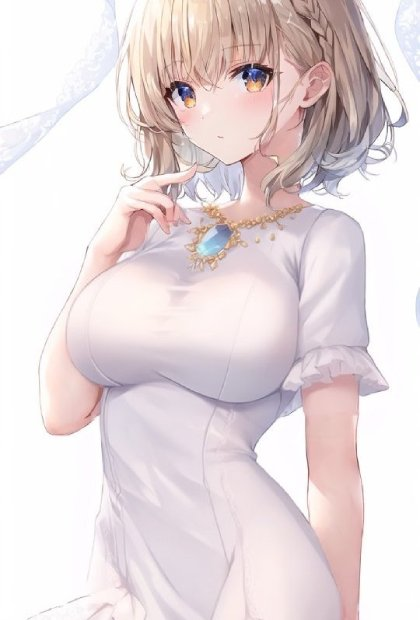
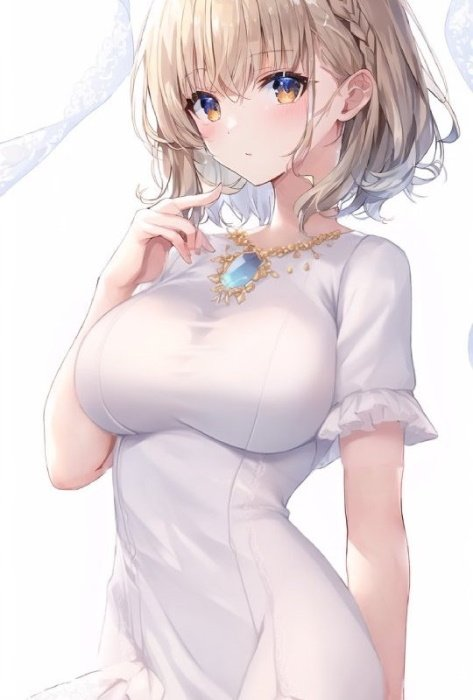
update Bomb ver1.06

diff --git a/bakuretu-bomb/bakuretubomb106.js b/bakuretu-bomb/bakuretubomb106.js
@@ -1,0 +1,291 @@
+/**
+ * 爆裂BOMB JavaScript版 ver1.06
+ */
+
+// アニメーション設定
+if (typeof BOMB_GAME_ANIME_IMAGE == 'undefined') {
+    var BOMB_GAME_ANIME_IMAGE = 0; // アニメーション画像数（0以外でアニメーション有効）
+}
+if (typeof BOMB_GAME_ANIME_WAIT == 'undefined') {
+    var BOMB_GAME_ANIME_WAIT = 80; // アニメーション待ち時間
+}
+if (typeof BOMB_GAME_ANIME_FRAME == 'undefined') {
+    var BOMB_GAME_ANIME_FRAME = 1; // アニメーションフレーム間隔（アニメ速度）
+}
+if (typeof BOMB_GAME_ANIME_POSITION_X == 'undefined') {
+    var BOMB_GAME_ANIME_POSITION_X = 0; // アニメーション位置X
+}
+if (typeof BOMB_GAME_ANIME_POSITION_Y == 'undefined') {
+    var BOMB_GAME_ANIME_POSITION_Y = 0; // アニメーション位置Y
+}
+
+enchant();
+
+var game = new Game(BOMB_GAME_WIDTH, BOMB_GAME_HEIGHT); // game stage
+
+if (window.Audio) {
+    if (navigator.userAgent.indexOf('Trident/') > 0 || navigator.userAgent.indexOf('MSIE ') > 0) {
+        var soundBomb1 = new Audio("bomb_sound.mp3");
+        var soundBomb2 = new Audio("bomb_sound.mp3");
+    } else {
+        var soundBomb1 = new Audio("bomb_sound.wav");
+        var soundBomb2 = new Audio("bomb_sound.wav");
+    }
+}
+var soundCount = 0;
+game.preload("bomb_icon_menu.png", "bomb_icon_bomb.png", "bomb_game_01.jpg", "bomb_game_02.jpg", "bomb_game_03.jpg");
+if (BOMB_GAME_ANIME_IMAGE > 0) {
+    game.preload("bomb_game_anime.jpg");
+}
+game.fps = BOMB_GAME_FPS;
+
+var imgFront = new Image();
+var imgBack = new Image();
+var imgEdge = new Image();
+
+var spriteScreen  = new Sprite(BOMB_GAME_WIDTH, BOMB_GAME_HEIGHT);
+
+var sf = new Surface(BOMB_GAME_WIDTH, BOMB_GAME_HEIGHT);
+var sfBuff = new Surface(BOMB_GAME_WIDTH, BOMB_GAME_HEIGHT);
+
+var scene1 = new Scene();
+
+game.bomb = new Array(5);
+game.mode = 0;
+game.timeLine = 0;
+
+game.timeLabel = new Label();
+game.restart = new Sprite(256, 64);
+
+var animeSprite = null;
+
+window.onload = function()
+{
+    game.onload = function()
+    {
+    // === 初期化 ===
+
+    imgFront = game.assets["bomb_game_01.jpg"]._element; // 初期画像
+    imgBack = game.assets["bomb_game_02.jpg"]._element;; // 削除後画像
+    imgEdge = game.assets["bomb_game_03.jpg"]._element;; // 淵画像
+
+    // アニメーション Sprite の初期化
+    if (BOMB_GAME_ANIME_IMAGE > 0) {
+        animeSprite = new AnimeSprite();
+    }
+
+    sf.context.drawImage(imgFront, 0, 0, BOMB_GAME_WIDTH, BOMB_GAME_HEIGHT);
+    sfBuff.context.drawImage(imgEdge, 0, 0, BOMB_GAME_WIDTH, BOMB_GAME_HEIGHT);
+
+    sf._dirty = true;
+    sfBuff._dirty = true;
+    spriteScreen.image = null;
+    spriteScreen.image = sf;
+
+    spriteScreen.addEventListener('touchstart', function(e)
+    {
+        if (game.mode != 0) return;
+
+        // ゲーム開始
+        game.mode = 1;
+        if (game.restart.frame == 0) game.restart.frame = 1;
+        game.restart.x = 0;
+        game.restart.y = 0;
+        // Sprite削除
+        scene1.removeChild(game.restart);
+        // ゲーム初期化
+        game.timeLine = 0;
+        sf.context.drawImage(imgFront, 0, 0, BOMB_GAME_WIDTH, BOMB_GAME_HEIGHT);
+        sfBuff.context.drawImage(imgEdge, 0, 0, BOMB_GAME_WIDTH, BOMB_GAME_HEIGHT);
+        spriteScreen.image = sf;
+        // Sprite表示
+        game.createBoms();
+        scene1.addChild(game.timeLabel);
+    });
+
+    game.createBoms = function()
+    {
+        for (var n = 0; n < 5; n++) {
+            game.bomb[n] = new Sprite(64, 64);
+            game.bomb[n].image = game.assets["bomb_icon_bomb.png"];
+
+            game.bomb[n].init = function()
+            {
+                this.x = rand(BOMB_GAME_WIDTH - 128) + 64;
+                this.y = -32;
+                this.vy = rand(18)+6;
+                this.baku = rand(BOMB_GAME_BAKURETU_BOMB_RATE);
+                if (this.baku == 1) this.frame = 2; else this.frame = 0;
+            };
+
+            game.bomb[n].addEventListener("touchstart", function(e)
+            {
+                if (this.baku == 1) {
+                    clearBlockBig(this.x + 32, this.y + 32);
+                } else {
+                    clearBlock(this.x + 32, this.y + 32);
+                }
+
+                this.init();
+                if (BOMB_GAME_BAKURETU_BOMB_SOUND == "on") {
+                    if (window.Audio) {
+                        if (soundCount == 0) soundBomb1.play(); else soundBomb2.play();
+                        soundCount = 1 - soundCount;
+                    }
+                }
+            });
+
+            game.bomb[n].addEventListener('enterframe', function()
+            {
+                if (this.baku == 1) {
+                    this.frame = 3 + (2 - this.frame);
+                } else {
+                    this.frame = 1 - this.frame;
+                }
+                this.y += this.vy;
+                if (this.y > BOMB_GAME_HEIGHT) this.init();
+            });
+
+            game.bomb[n].init();
+
+            scene1.addChild(game.bomb[n]);
+
+        } // for(n)
+    };
+
+    // --- 残りタイム ---
+    game.timeLabel.x = 10;
+    game.timeLabel.y = 5;
+    game.timeLabel.color = BOMB_GAME_TIMER_LABEL_COLOR;
+    game.timeLabel.font  = "32px 'Consolas', 'Monaco'";
+    game.timeLabel.addEventListener('enterframe', function()
+    {
+        var progress = parseInt(game.timeLine/game.fps);
+        time = BOMB_GAME_LIMIT_TIME - parseInt(game.timeLine/game.fps)+"";
+        if (time <= 0) {
+            // ゲーム終了（Sprite削除）
+            game.mode = 2;
+            scene1.removeChild(game.timeLabel);
+            for (var n = 0; n < 5; n++) scene1.removeChild(game.bomb[n]);
+            // Sprite表示
+            scene1.addChild(game.restart);
+        }
+        this.text = "" + time;
+        game.timeLine++;
+    });
+
+    // --- ゲームスタート・リスタート ボタン ---
+    game.restart.image = game.assets["bomb_icon_menu.png"];
+    game.restart.x = (BOMB_GAME_WIDTH/2) - (game.restart.width/2);
+    game.restart.y = (BOMB_GAME_HEIGHT/2) - (game.restart.height/2);
+    game.restart.addEventListener("touchend", function(e)
+    {
+        // ゲーム開始・再開
+        if (game.mode == 1) return;
+        game.mode = 1;
+        if (game.restart.frame == 0) game.restart.frame = 1;
+        game.restart.x = 0;
+        game.restart.y = 0;
+        // Sprite削除
+        scene1.removeChild(game.restart);
+        // ゲーム初期化
+        game.timeLine = 0;
+        sf.context.drawImage(imgFront, 0, 0, BOMB_GAME_WIDTH, BOMB_GAME_HEIGHT);
+        sfBuff.context.drawImage(imgEdge, 0, 0, BOMB_GAME_WIDTH, BOMB_GAME_HEIGHT);
+        spriteScreen.image = sf;
+        // Sprite表示
+        game.createBoms();
+        scene1.addChild(game.timeLabel);
+    });
+
+    // === シーン1 初回実行 ===
+
+    scene1.addChild(spriteScreen);
+    scene1.addChild(game.restart);
+    // アニメーション初期化（スタート画面から表示）
+    if (BOMB_GAME_ANIME_IMAGE > 0) {
+        scene1.addChild(animeSprite);
+    }
+
+    game.replaceScene(scene1); // ゲームスタート
+
+
+    }; // End of game.onload
+
+    game.start();
+};
+
+function rand(num)
+{
+    return Math.floor(Math.random()*num);
+};
+
+function clearBlockBig(x, y)
+{
+    clearBlock(x, y);
+    clearBlock(x-30, y);
+    clearBlock(x+30, y);
+    clearBlock(x, y-30);
+    clearBlock(x, y+30);
+    clearBlock(x-20, y-20);
+    clearBlock(x+20, y-20);
+    clearBlock(x-20, y+20);
+    clearBlock(x+20, y+20);
+};
+
+function clearBlock(x, y)
+{
+    // Set Back Image on Paper Image
+    sfBuff.context.drawImage(imgBack, x-24, y-8, 48, 16, x-24, y-8, 48, 16);
+    sfBuff.context.drawImage(imgBack, x-20, y-12, 40, 24, x-20, y-12, 40, 24);
+    sfBuff.context.drawImage(imgBack, x-8, y-24, 16, 48, x-8, y-24, 16, 48);
+    sfBuff.context.drawImage(imgBack, x-12, y-20, 24, 40, x-12, y-20, 24, 40);
+    sfBuff.context.drawImage(imgBack, x-16, y-16, 32, 32, x-16, y-16, 32, 32);
+
+    // Set Buff Image on Main Context
+    sf.context.drawImage(sfBuff._element, x-24-4, y-8-4, 48+8, 16+8, x-24-4, y-8-4, 48+8, 16+8);
+    sf.context.drawImage(sfBuff._element, x-20-4, y-12-4, 40+8, 24+8, x-20-4, y-12-4, 40+8, 24+8);
+    sf.context.drawImage(sfBuff._element, x-8-4, y-24-4, 16+8, 48+8, x-8-4, y-24-4, 16+8, 48+8);
+    sf.context.drawImage(sfBuff._element, x-12-4, y-20-4, 24+8, 40+8, x-12-4, y-20-4, 24+8, 40+8);
+    sf.context.drawImage(sfBuff._element, x-16-4, y-16-4, 32+8, 32+8, x-16-4, y-16-4, 32+8, 32+8);
+};
+
+// --- アニメーション Sprite
+AnimeSprite = Class.create(Sprite,
+{
+    initialize:function()
+    {
+        var animeImg = game.assets["bomb_game_anime.jpg"];
+        animeWidth = animeImg.width;
+        animeHeight = animeImg.height;
+        Sprite.call(this, animeWidth, animeHeight / BOMB_GAME_ANIME_IMAGE);
+        this.image = animeImg;
+        var frameHeight = animeHeight / BOMB_GAME_ANIME_IMAGE;
+        this.init();
+    },
+    init:function()
+    {
+        this.frame = 0;
+        this.x = BOMB_GAME_ANIME_POSITION_X;
+        this.y = -BOMB_GAME_HEIGHT; // 非表示
+        this.time = 0;
+    },
+    onenterframe:function()
+    {
+        this.time++;
+        if (this.time < BOMB_GAME_ANIME_WAIT) {
+            return;
+        }
+
+        this.y = BOMB_GAME_ANIME_POSITION_Y; // 表示
+        for (var i = 0; i < BOMB_GAME_ANIME_IMAGE; i++) {
+            if (this.time == BOMB_GAME_ANIME_WAIT + (i * BOMB_GAME_ANIME_FRAME)) {
+                this.frame = i;
+            }
+        }
+        if (this.time >= BOMB_GAME_ANIME_WAIT + (BOMB_GAME_ANIME_IMAGE * BOMB_GAME_ANIME_FRAME)) {
+            this.time = 0;
+            this.y = -BOMB_GAME_HEIGHT; // 非表示
+        }
+    }
+});

diff --git a/bakuretu-bomb/index_anime.html b/bakuretu-bomb/index_anime.html
@@ -19,6 +19,12 @@ var BOMB_GAME_TIMER_LABEL_COLOR = "black";
 var BOMB_GAME_BAKURETU_BOMB_RATE = 20;
 var BOMB_GAME_BAKURETU_BOMB_SOUND = "off";
 
+var BOMB_GAME_ANIME_IMAGE = 3; // アニメーション画像数（アニメーション利用）
+var BOMB_GAME_ANIME_POSITION_X = 172;
+var BOMB_GAME_ANIME_POSITION_Y = 59;
+var BOMB_GAME_ANIME_FRAME = 1;
+var BOMB_GAME_ANIME_WAIT = 40;
+
 var userAgent = navigator.userAgent.toLowerCase();
 if(userAgent.indexOf("iphone") == -1 && userAgent.indexOf("android") == -1) {
     document.write('<div id="enchant-stage" style="width:'+BOMB_GAME_WIDTH+'px; height:'+BOMB_GAME_HEIGHT+'px; cursor:hand; margin: 0 auto;"></div>');

diff --git a/bakuretu-bomb/index_anime_sound.html b/bakuretu-bomb/index_anime_sound.html
@@ -17,7 +17,13 @@ var BOMB_GAME_FPS = 12;
 var BOMB_GAME_LIMIT_TIME = 30;
 var BOMB_GAME_TIMER_LABEL_COLOR = "black";
 var BOMB_GAME_BAKURETU_BOMB_RATE = 20;
-var BOMB_GAME_BAKURETU_BOMB_SOUND = "off";
+var BOMB_GAME_BAKURETU_BOMB_SOUND = "on";
+
+var BOMB_GAME_ANIME_IMAGE = 3; // アニメーション画像数（アニメーション利用）
+var BOMB_GAME_ANIME_POSITION_X = 172;
+var BOMB_GAME_ANIME_POSITION_Y = 59;
+var BOMB_GAME_ANIME_FRAME = 1;
+var BOMB_GAME_ANIME_WAIT = 40;
 
 var userAgent = navigator.userAgent.toLowerCase();
 if(userAgent.indexOf("iphone") == -1 && userAgent.indexOf("android") == -1) {

diff --git a/bakuretu-bomb/index_sound.html b/bakuretu-bomb/index_sound.html
@@ -10,8 +10,8 @@
 <div style="display: grid; place-items: center; height: 100vh;">
 <script type="text/javascript" charset="utf-8">
 
-var BOMB_GAME_WIDTH  = 420;
-var BOMB_GAME_HEIGHT = 620;
+var BOMB_GAME_WIDTH  = 473;
+var BOMB_GAME_HEIGHT = 700;
 var BOMB_GAME_FPS = 12;
 var BOMB_GAME_LIMIT_TIME = 30;
 var BOMB_GAME_TIMER_LABEL_COLOR = "black";
@@ -25,7 +25,7 @@ if(userAgent.indexOf("iphone") == -1 && userAgent.indexOf("android") == -1) {
 </script>
 </div>
 
-<script src="bakuretubomb104.min.js"></script>
+<script src="bakuretubomb106.js"></script>
 
 </body>
 </html>
